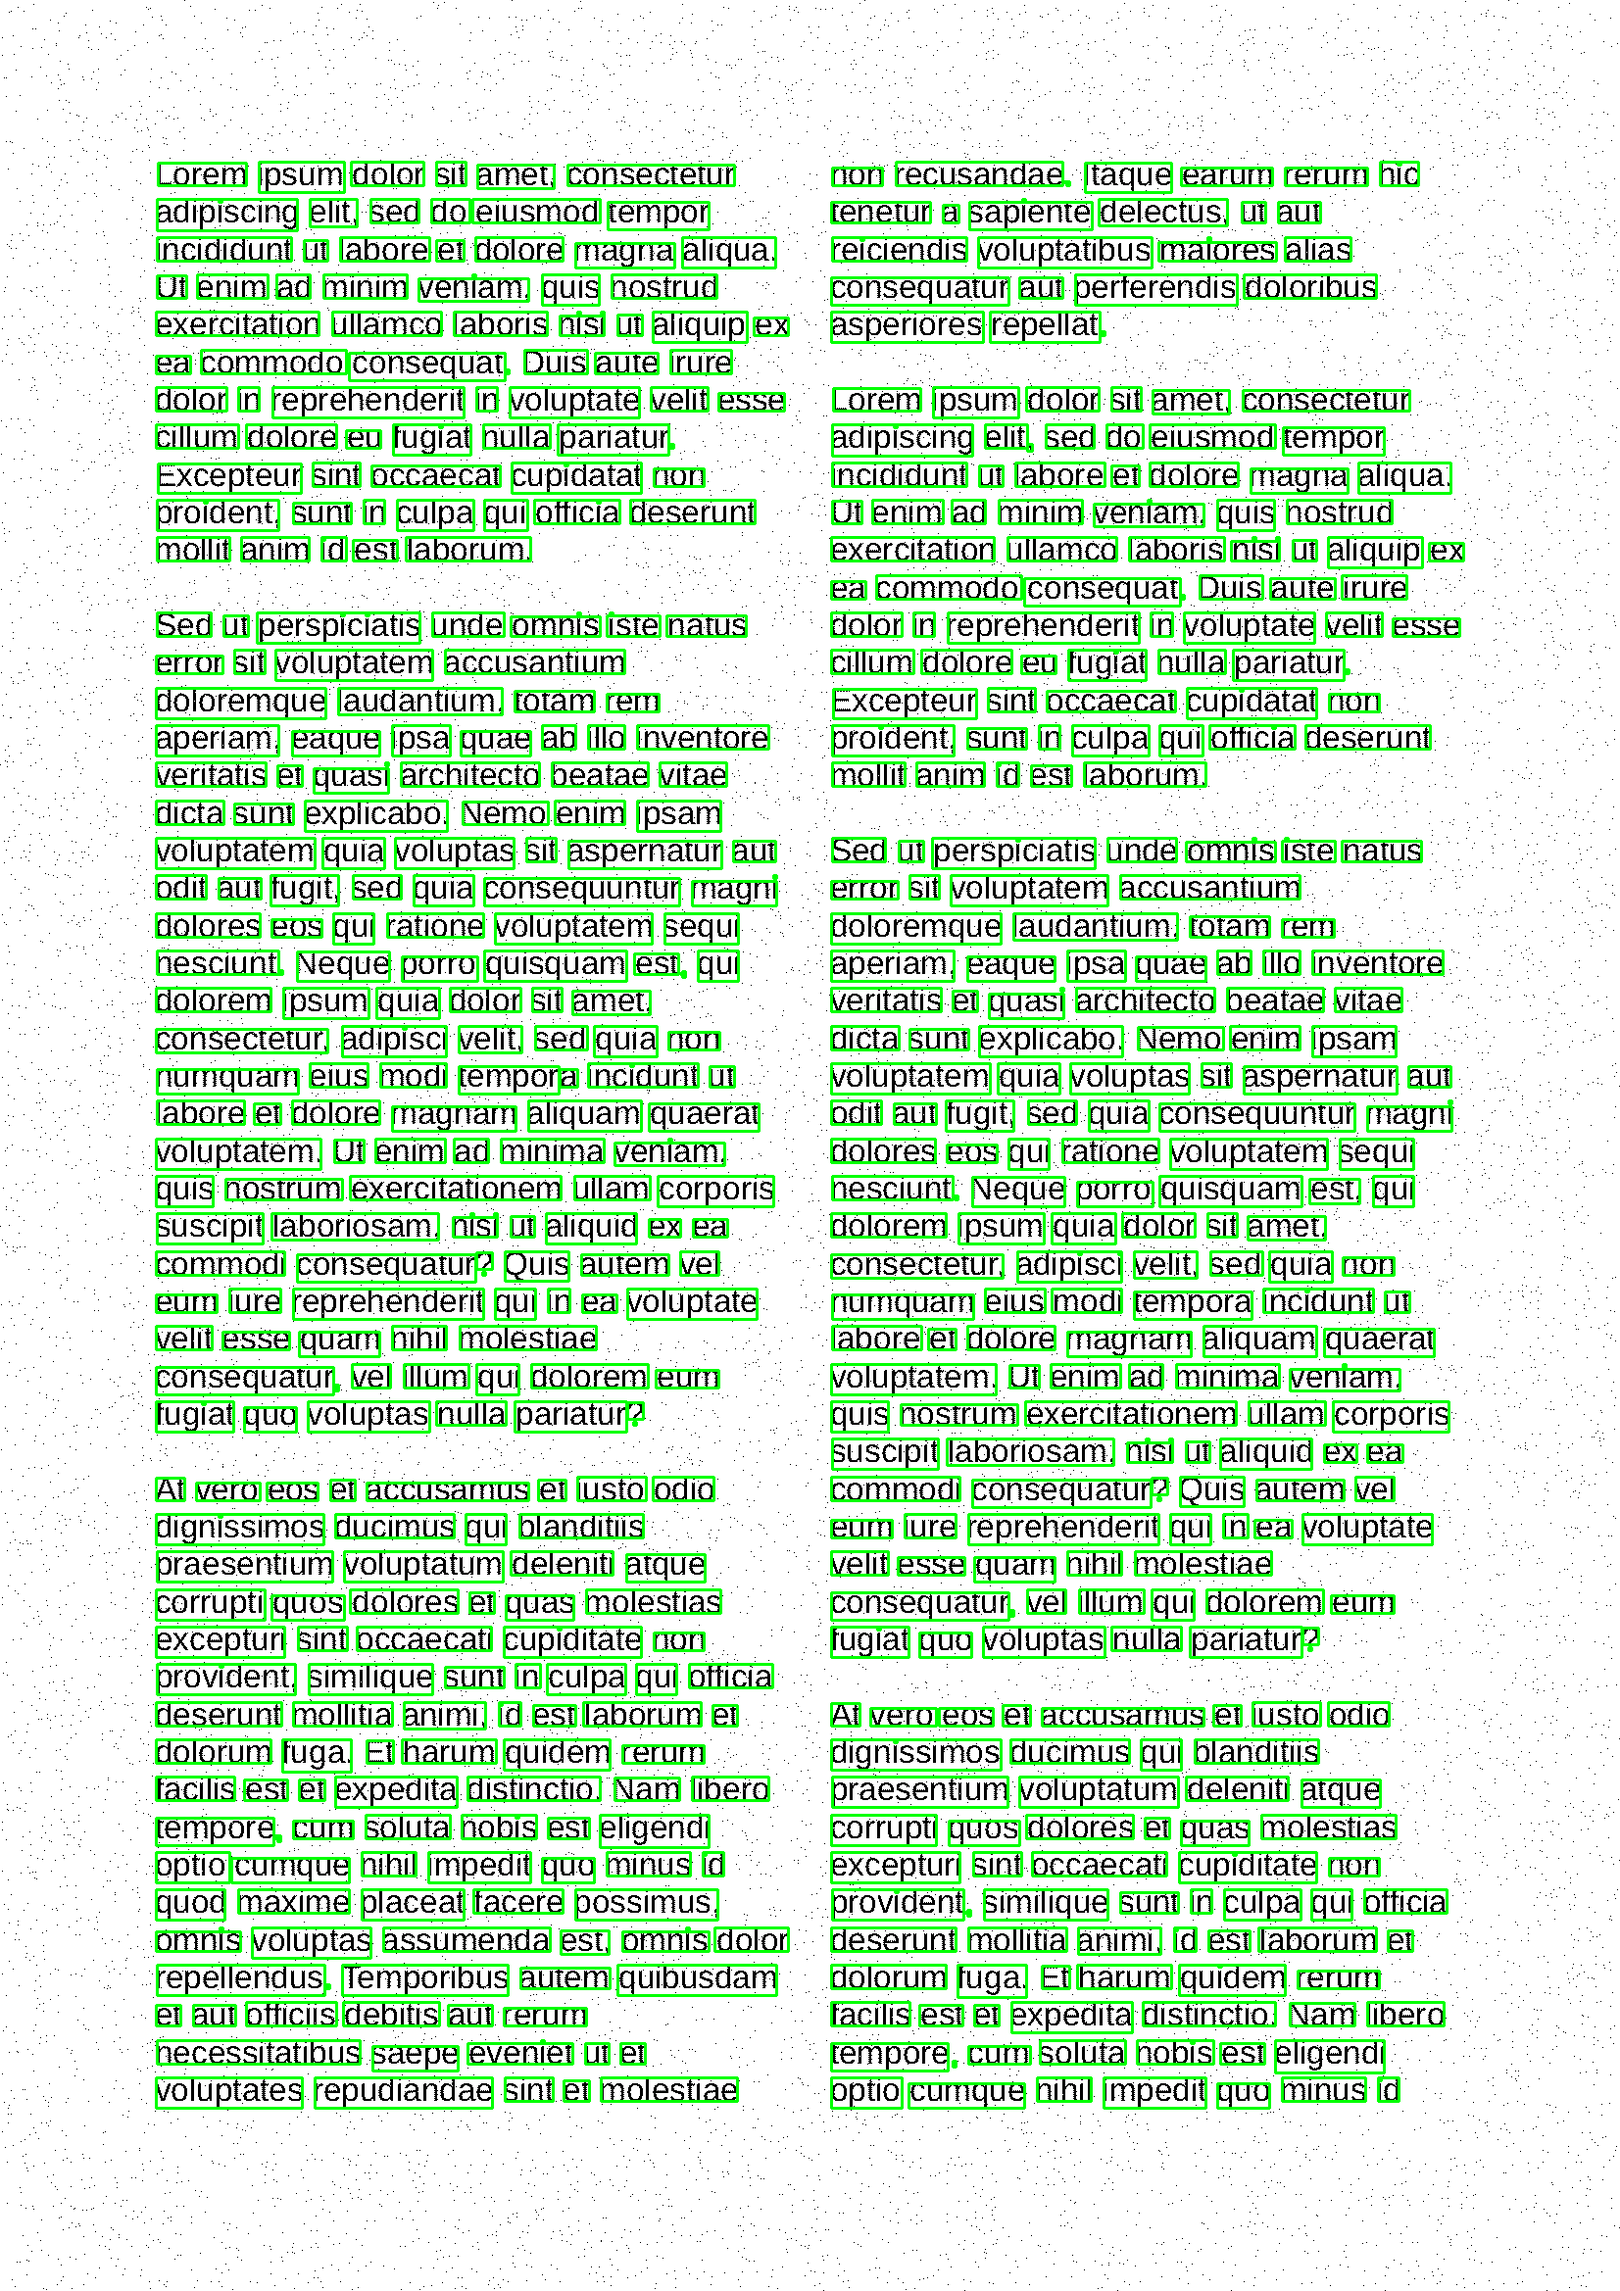
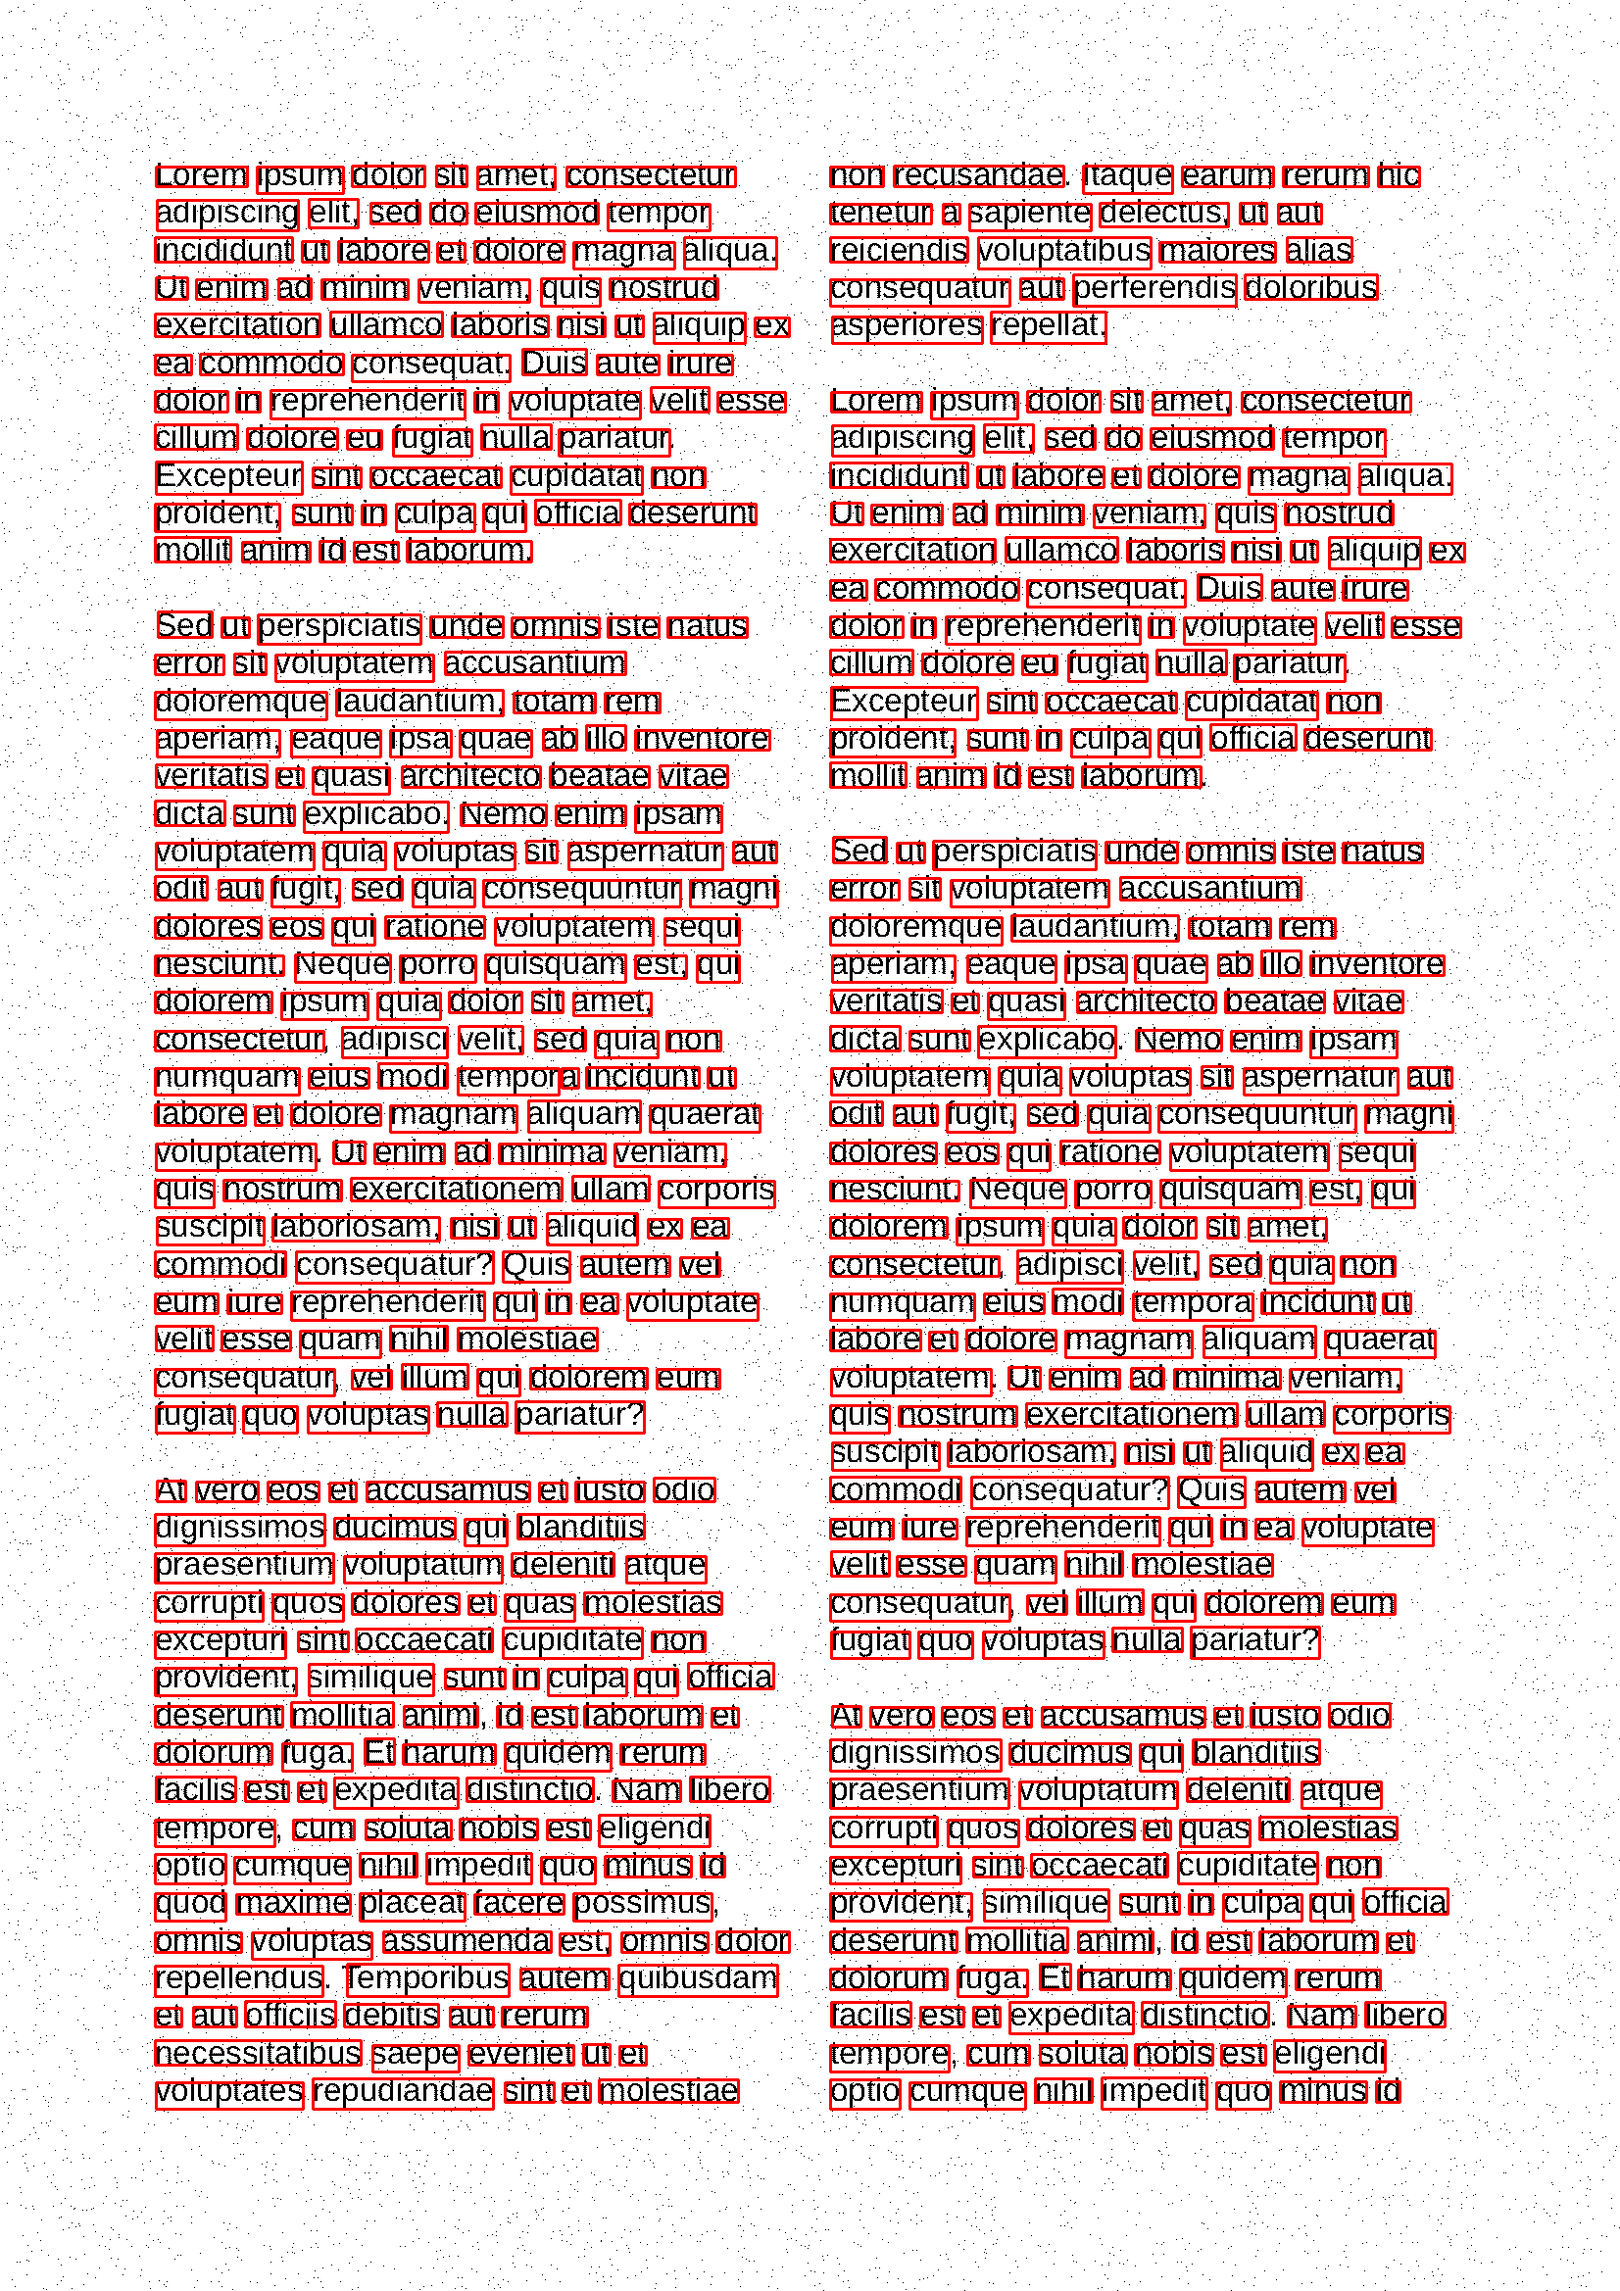
find connected through dfs

Changed region(s): [[0.0926, 0.0624, 0.8947, 0.9367]]

diff --git a/ocr.py b/ocr.py
@@ -3,16 +3,37 @@ import pytesseract
 import numpy as np
 
 # image = cv2.imread('./assets/ocr/lorem_s12_c03.pbm')
-image = cv2.imread('./assets/ocr/lorem_s12_c02_noise.pbm')
+orig = cv2.imread('./assets/ocr/lorem_s12_c02_noise.pbm')
 
 # Convert the image to grayscale
-gray_image = cv2.cvtColor(image, cv2.COLOR_BGR2GRAY)
+image = cv2.cvtColor(orig, cv2.COLOR_BGR2GRAY)
 # Preprocessing (e.g., thresholding)
-median_filtered_image = cv2.medianBlur(gray_image, 3)
-_, binary_image = cv2.threshold(median_filtered_image, 0, 255, cv2.THRESH_BINARY_INV + cv2.THRESH_OTSU)
+image = cv2.medianBlur(image, 3)
+_, image = cv2.threshold(image, 0, 255, cv2.THRESH_BINARY_INV + cv2.THRESH_OTSU)
+
+def hit_or_miss(binary_image, structuring_element=None):
+    # Define the default structuring element if not provided
+    if structuring_element is None:
+        structuring_element = np.array([
+            [0, 1, 1, 1, 0],
+            [1, 1, 1, 1, 1],
+            [1, 1, 1, 1, 1],
+            [1, 1, 1, 1, 1],
+            [0, 1, 1, 1, 0]
+        ], dtype=np.uint8)
+    
+    # Invert the binary image
+    inverted_image = cv2.bitwise_not(binary_image)
+    
+    # Perform erosion with the structuring element
+    erosion = cv2.erode(inverted_image, structuring_element)
+    
+    # Invert the result to get the hit-or-miss operation
+    result = cv2.bitwise_not(erosion)
+    
+    return result
 
 # Define a kernel for morphological operations
-
 def create_text_kernel(size):
     # Create a kernel with vertical and horizontal lines
     kernel = np.zeros((size, size), dtype=np.uint8)
@@ -25,27 +46,115 @@ def create_text_kernel(size):
     # kernel = np.ones((7, 7), np.uint8)
     return kernel
 
+def create_circular_kernel(radius):
+    size = radius
+    kernel = np.zeros((size, size), dtype=np.uint8)
+    for y in range(size):
+        for x in range(size):
+            if x*x + y*y <= radius*radius:
+                kernel[x][y] = 1
+    
+    return kernel
+
 kernel = create_text_kernel(7)
+kernel = create_circular_kernel(7)
 
 cv2.imwrite('text_kernel.png', kernel)
 
+
 # Morphological operations: dilation and erosion
-dilated_image = cv2.dilate(binary_image, kernel, iterations=2)
-eroded_image = cv2.erode(dilated_image, kernel, iterations=2)
-finished_image = eroded_image
+image  = cv2.dilate(image, kernel, iterations=1)
+image  = cv2.erode(image, kernel, iterations=1)
+
+image  = cv2.dilate(image, kernel, iterations=1)
+image  = cv2.erode(image, kernel, iterations=1)
+
+image  = cv2.dilate(image, kernel, iterations=1)
+image  = cv2.erode(image, kernel, iterations=1)
+
+cv2.imwrite('morphological.png', image)
+
+image = hit_or_miss(image)
+cv2.imwrite('hit_or_miss.png', image)
+
+finished_image = image
 
 cv2.imwrite('finished.png', finished_image)
 
-# Connected component analysis (CCA)
-_, labels, stats, centroids = cv2.connectedComponentsWithStats(finished_image)
-print(labels, stats, centroids)
+def find_median_height(bboxes):
+    # List to store heights of bounding boxes
+    heights = []
+
+    # Iterate over all bounding boxes
+    for bbox in bboxes:
+        # Extract ymin and ymax from each bounding box
+        _, min_y, _, max_y = bbox
+        # Calculate height and append to the list
+        height = max_y - min_y
+        heights.append(height)
+
+    # Sort the list of heights
+    heights.sort()
+
+    # Calculate the median height
+    if len(heights) % 2 == 0:
+        # If number of heights is even, take average of middle two heights
+        median_height = (heights[len(heights)//2 - 1] + heights[len(heights)//2]) / 2
+    else:
+        # If number of heights is odd, take the middle height
+        median_height = heights[len(heights)//2]
+
+    return median_height
+
+def find_connected_components_bbox(image):
+    def dfs(x, y):
+        min_x, min_y, max_x, max_y = x, y, x, y
+        stack = [(x, y)]
+        while stack != []:
+            cx, cy = stack.pop()
+            if 0 <= cx < image.shape[0] and 0 <= cy < image.shape[1] and not visited[cx, cy] and image[cx, cy] == 255:
+                visited[cx, cy] = True
+                min_x = min(min_x, cx)
+                min_y = min(min_y, cy)
+                max_x = max(max_x, cx)
+                max_y = max(max_y, cy)
+                for dx, dy in [(1, 0), (-1, 0), (0, 1), (0, -1)]:
+                    stack.append((cx + dx, cy + dy))
+        return min_x, min_y, max_x, max_y
+
+    visited = np.zeros_like(image, dtype=bool)
+    bounding_boxes = []
+
+    for i in range(image.shape[0]):
+        for j in range(image.shape[1]):
+            if not visited[i, j] and image[i, j] == 255:
+                min_x, min_y, max_x, max_y = dfs(i, j)
+                bounding_boxes.append((min_x, min_y, max_x, max_y))
+
+    return bounding_boxes
+using_cv = False
+if using_cv:
+    # Connected component analysis (CCA)
+    _, labels, stats, centroids = cv2.connectedComponentsWithStats(finished_image)
+    for i in range(1, len(stats)):
+        x, y, w, h, area = stats[i]
+        if area > 10*10:
+            cv2.rectangle(orig, (x, y), (x + w, y + h), (0, 255, 0), 2)
+
+bboxes = find_connected_components_bbox(finished_image)
+median_height = find_median_height(bboxes)
+min_area = median_height*median_height
+for bbox in bboxes:
+    min_x, min_y, max_x, max_y = bbox
+    cv2.rectangle(orig, (min_y, min_x), (max_y, max_x), (0, 0, 255), 2)
+
+
+
+# print(labels, stats, centroids)
 # _, labels, stats, centroids = connectedComponentsWithStats(eroded_image)
 
 
 # Iterate through the detected components (excluding background)
-for i in range(1, len(stats)):
-    x, y, w, h, area = stats[i]
-    cv2.rectangle(image, (x, y), (x + w, y + h), (0, 255, 0), 2)
 
 # Display the result
-cv2.imwrite('detected.png', image)
+cv2.imwrite('detected.png', orig)
